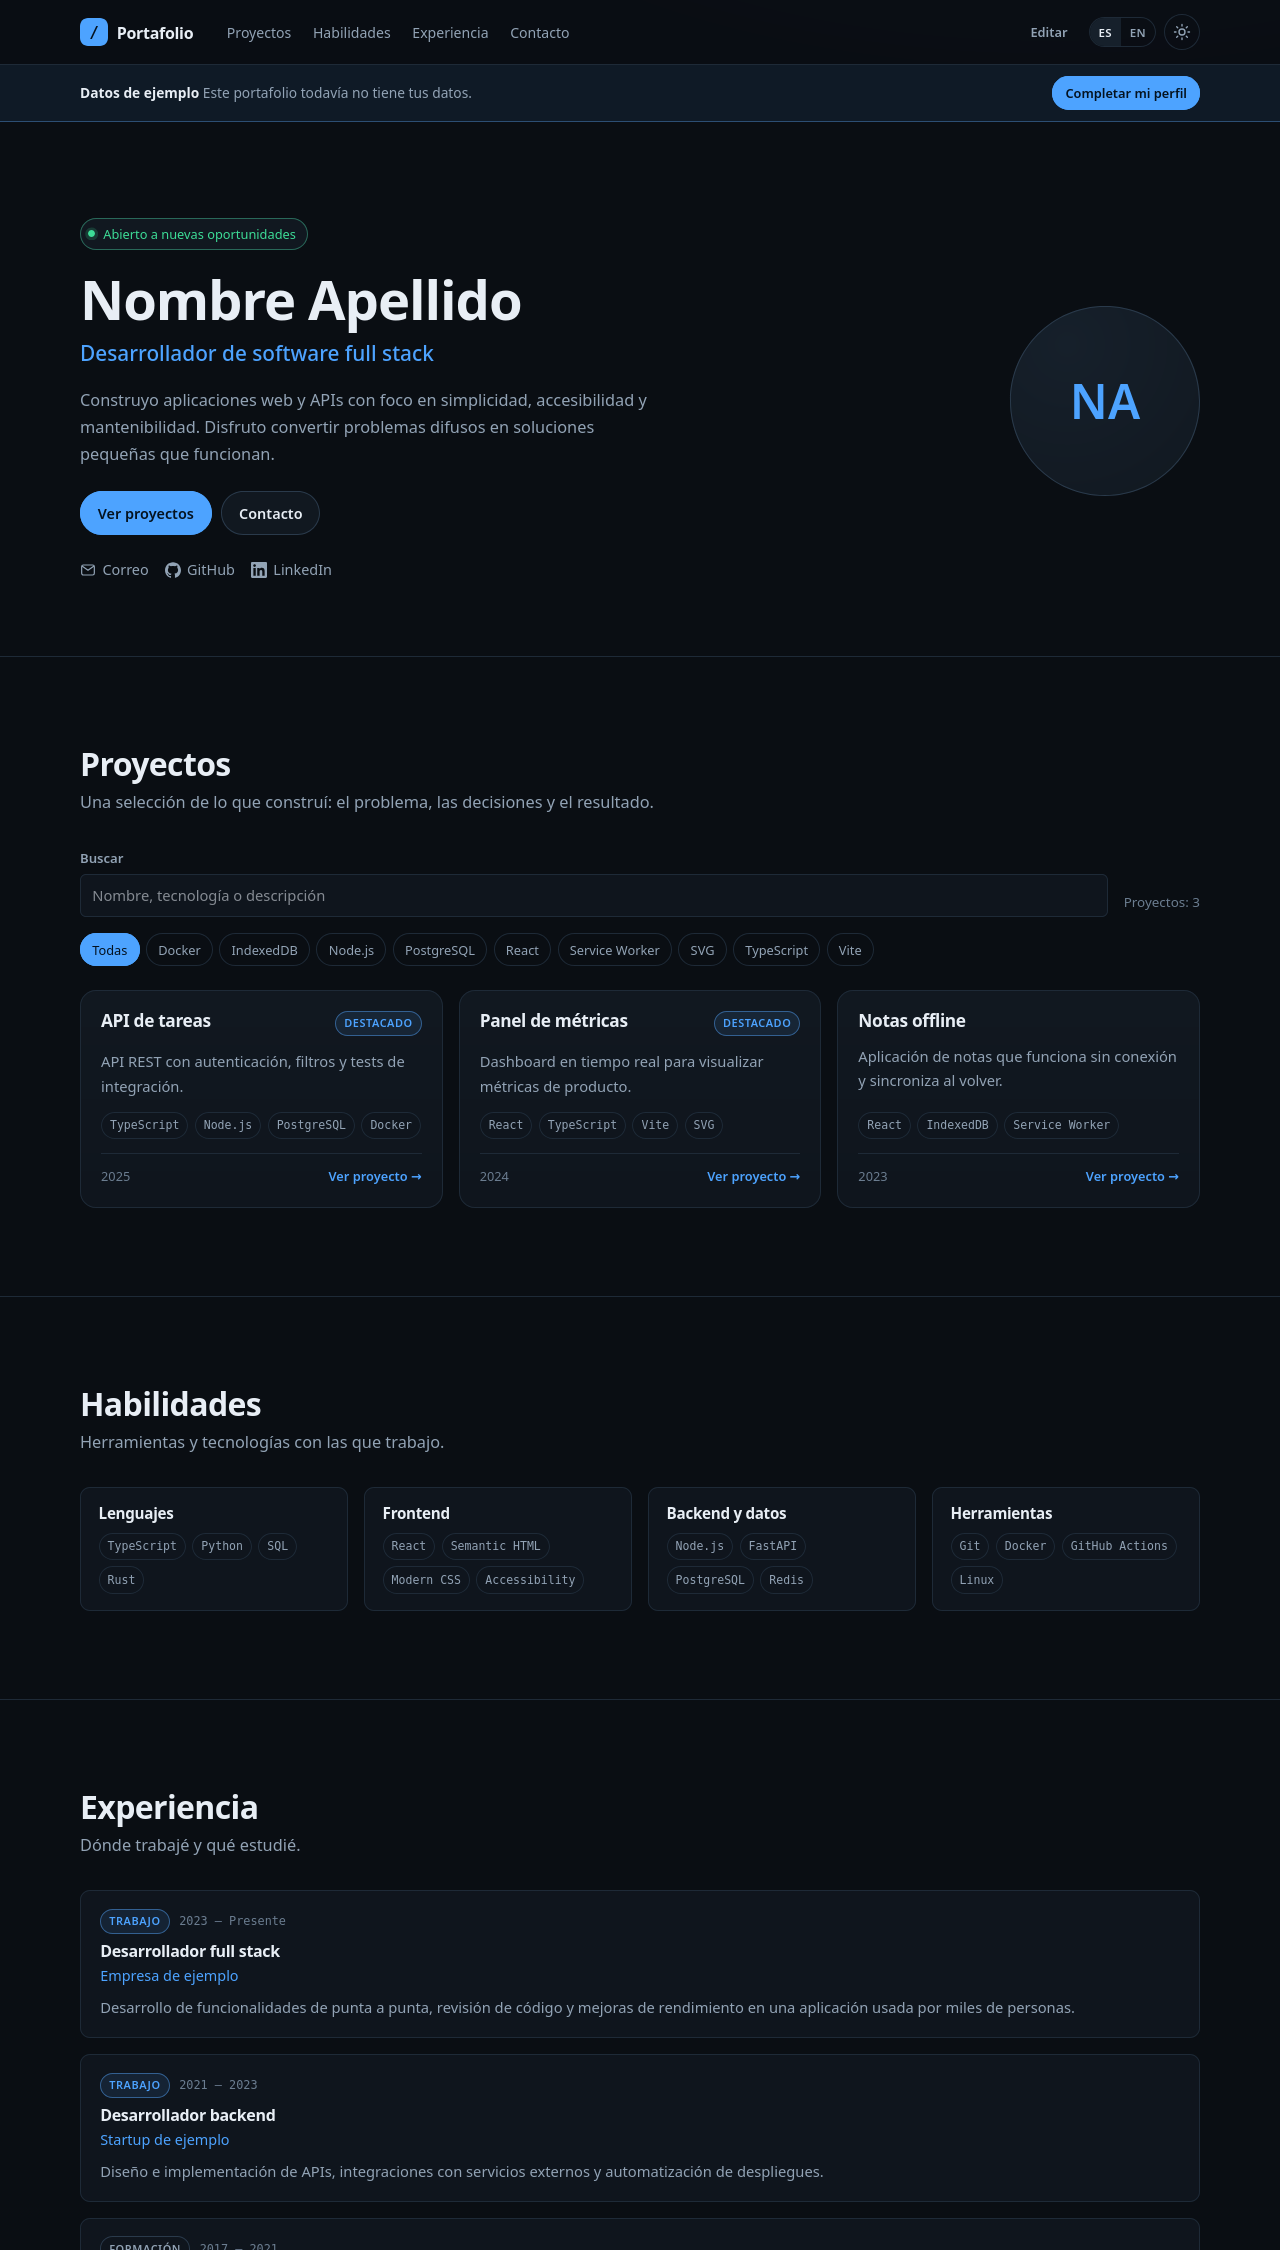
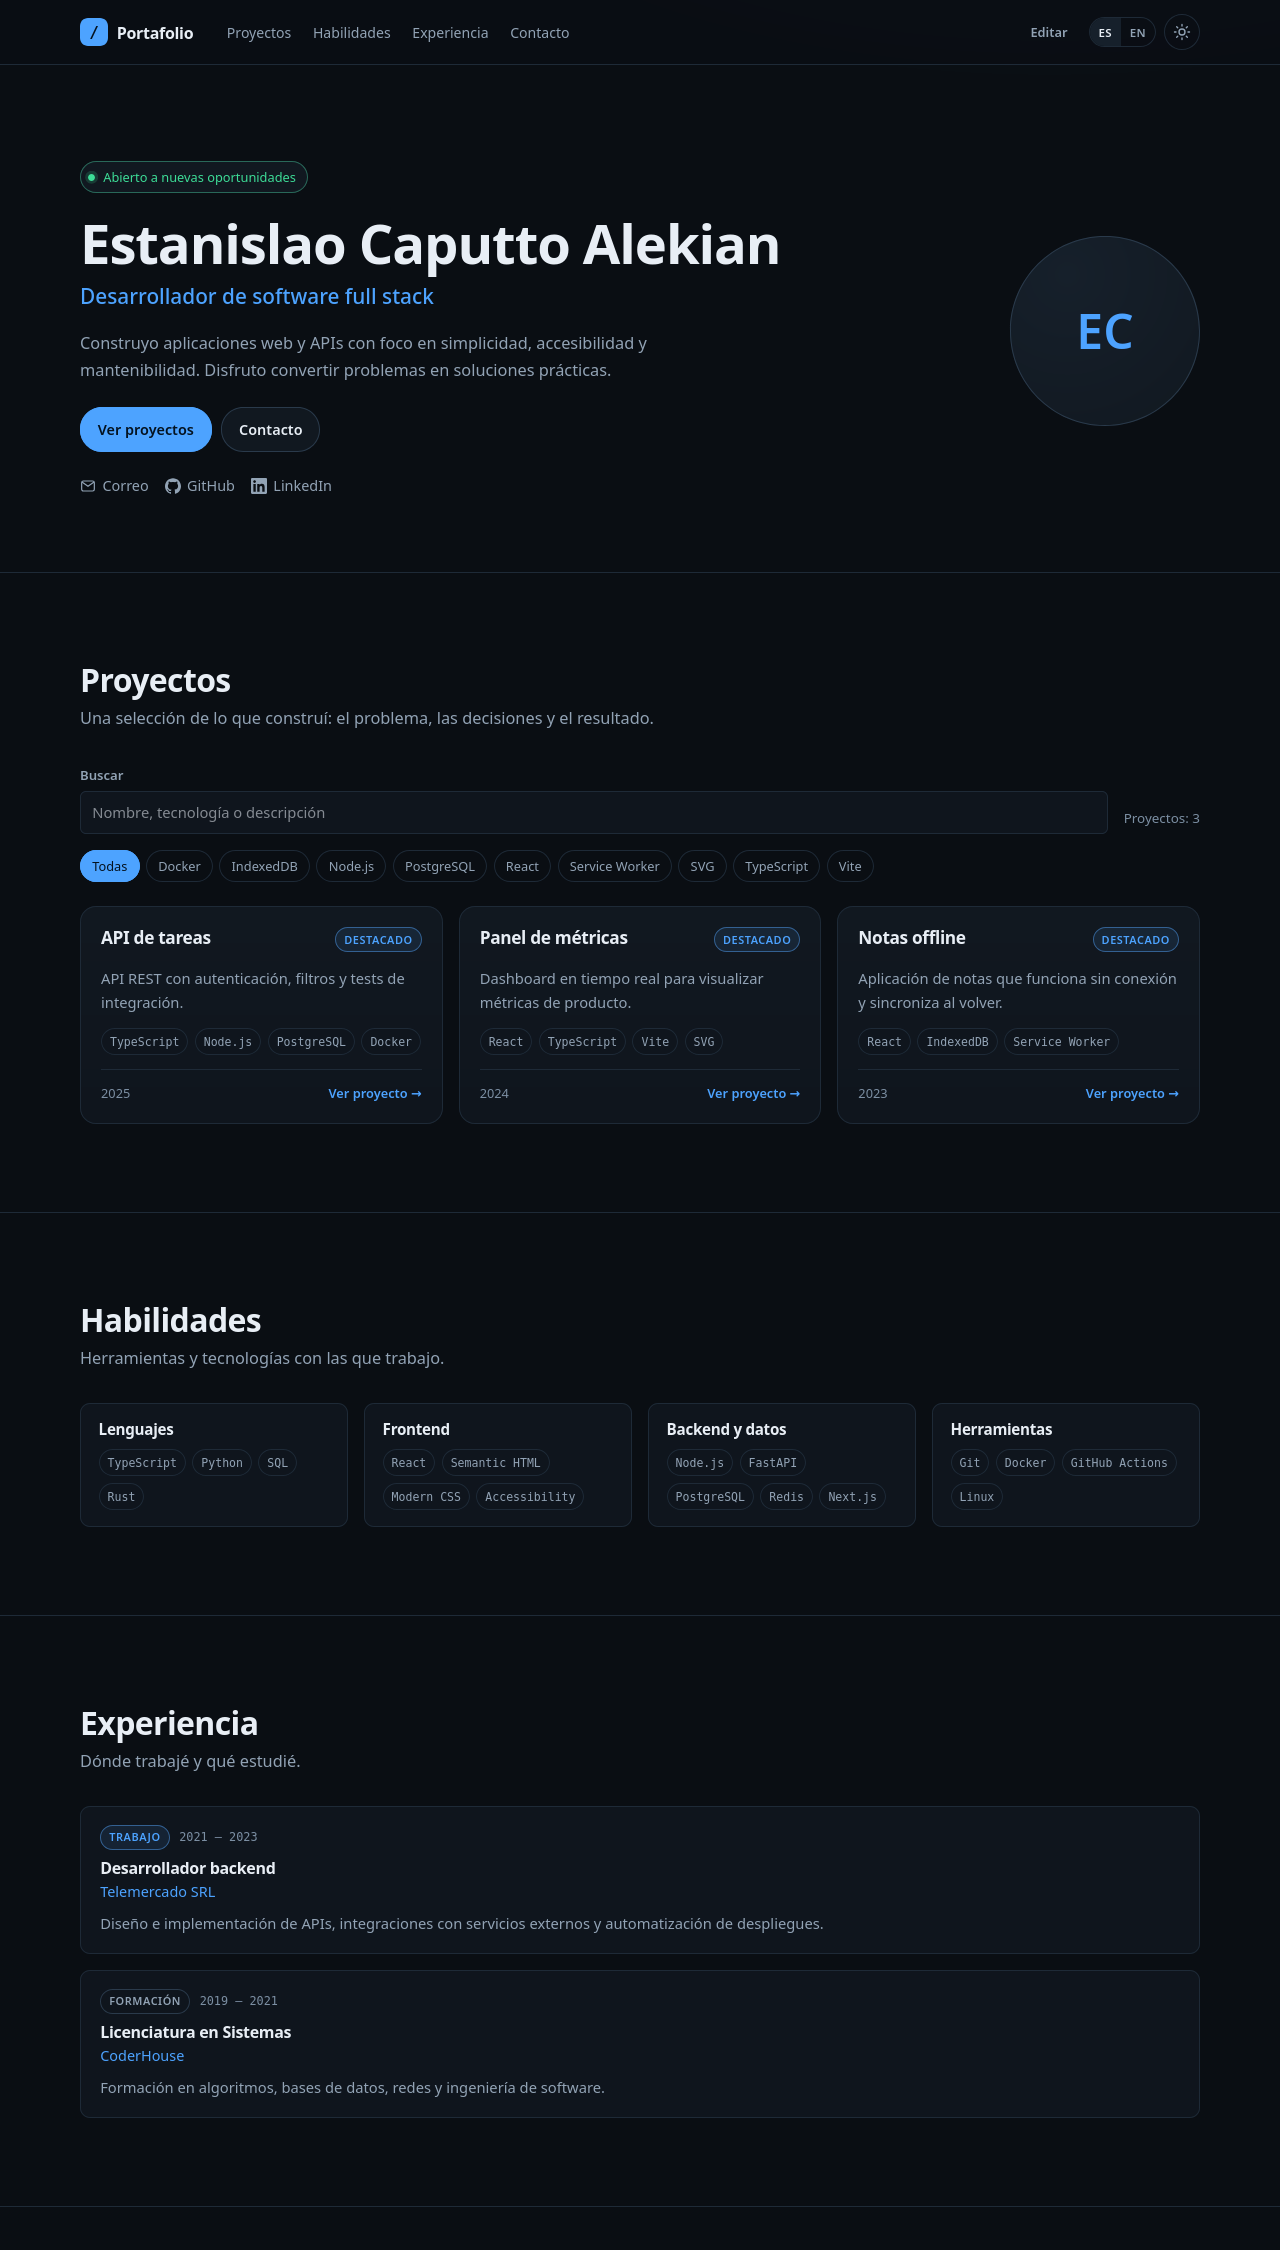
feat: publish personal profile and demo flag
Use the exported profile as the published seed, add a demo flag so the sample-data banner only appears when enabled, and decouple tests from the seed content.

diff --git a/src/__tests__/App.test.tsx b/src/__tests__/App.test.tsx
@@ -1,8 +1,16 @@
 import { fireEvent, render, screen } from '@testing-library/react';
 import { beforeEach, describe, expect, it } from 'vitest';
 import App from '../App';
+import { SEED } from '../data/seed';
 import type { Locale } from '../i18n';
 import { I18nProvider } from '../i18n/I18nProvider';
+
+const firstProject = SEED.projects[0];
+const secondProject = SEED.projects[1];
+
+if (!firstProject || !secondProject) {
+  throw new Error('El seed necesita al menos dos proyectos para correr estos tests.');
+}
 
 function renderApp(initialLocale: Locale = 'es') {
   return render(
@@ -22,12 +30,25 @@ beforeEach(() => {
 });
 
 describe('App', () => {
-  it('muestra el portafolio de ejemplo en español', () => {
+  it('muestra el portafolio publicado en español', () => {
     renderApp();
 
-    expect(screen.getByRole('heading', { level: 1, name: 'Nombre Apellido' })).toBeInTheDocument();
+    expect(screen.getByRole('heading', { level: 1, name: SEED.profile.name })).toBeInTheDocument();
+    expect(screen.getByText(`Proyectos: ${SEED.projects.length}`)).toBeInTheDocument();
+  });
+
+  it('no muestra el aviso de ejemplo si los datos son reales', () => {
+    renderApp();
+
+    expect(screen.queryByText('Datos de ejemplo')).toBeNull();
+  });
+
+  it('muestra el aviso cuando el portafolio está marcado como ejemplo', () => {
+    window.localStorage.setItem('portfolio:draft:v1', JSON.stringify({ ...SEED, demo: true }));
+
+    renderApp();
+
     expect(screen.getByText('Datos de ejemplo')).toBeInTheDocument();
-    expect(screen.getByText('Proyectos: 3')).toBeInTheDocument();
   });
 
   it('cambia de idioma sin recargar', () => {
@@ -37,25 +58,27 @@ describe('App', () => {
 
     expect(screen.getByRole('link', { name: 'Projects' })).toBeInTheDocument();
     expect(document.documentElement.lang).toBe('en');
-    expect(screen.getByRole('heading', { level: 1 })).toHaveTextContent('Nombre Apellido');
+    expect(screen.getByRole('heading', { level: 1 })).toHaveTextContent(SEED.profile.name);
   });
 
   it('filtra proyectos por búsqueda', () => {
     renderApp();
 
-    fireEvent.change(screen.getByLabelText('Buscar'), { target: { value: 'notas' } });
+    fireEvent.change(screen.getByLabelText('Buscar'), {
+      target: { value: firstProject.name },
+    });
 
-    expect(screen.getByRole('heading', { level: 3, name: 'Notas offline' })).toBeInTheDocument();
-    expect(screen.queryByRole('heading', { level: 3, name: 'API de tareas' })).toBeNull();
+    expect(screen.getByRole('heading', { level: 3, name: firstProject.name })).toBeInTheDocument();
+    expect(screen.queryByRole('heading', { level: 3, name: secondProject.name })).toBeNull();
     expect(screen.getByText('Proyectos: 1')).toBeInTheDocument();
   });
 
   it('abre el detalle de un proyecto por URL', () => {
-    goTo('#/proyecto/api-de-tareas');
+    goTo(`#/proyecto/${firstProject.id}`);
     renderApp();
 
-    expect(screen.getByRole('heading', { level: 1, name: 'API de tareas' })).toBeInTheDocument();
-    expect(screen.getByRole('heading', { level: 2, name: 'Resultados' })).toBeInTheDocument();
+    expect(screen.getByRole('heading', { level: 1, name: firstProject.name })).toBeInTheDocument();
+    expect(screen.getByRole('link', { name: /Volver a proyectos/ })).toBeInTheDocument();
   });
 
   it('muestra un mensaje si el proyecto no existe', () => {
@@ -103,8 +126,10 @@ describe('App', () => {
     fireEvent.change(screen.getByLabelText('Nombre'), { target: { value: 'Ada Lovelace' } });
 
     const stored = JSON.parse(window.localStorage.getItem('portfolio:draft:v1') ?? '{}') as {
+      demo?: boolean;
       profile?: { name?: string };
     };
     expect(stored.profile?.name).toBe('Ada Lovelace');
+    expect(stored.demo).toBe(false);
   });
 });

diff --git a/src/data/storage.ts b/src/data/storage.ts
@@ -6,7 +6,6 @@ export const DRAFT_KEY = 'portfolio:draft:v1';
 
 export interface LoadedPortfolio {
   portfolio: Portfolio;
-  fromSeed: boolean;
   warnings: string[];
 }
 
@@ -23,20 +22,20 @@ function getStorage(): Storage | null {
 }
 
 export function loadPortfolio(storage: Storage | null = getStorage()): LoadedPortfolio {
-  if (!storage) return { portfolio: SEED, fromSeed: true, warnings: [] };
+  if (!storage) return { portfolio: SEED, warnings: [] };
 
   try {
     const raw = storage.getItem(DRAFT_KEY);
-    if (!raw) return { portfolio: SEED, fromSeed: true, warnings: [] };
+    if (!raw) return { portfolio: SEED, warnings: [] };
 
     const { portfolio, warnings } = normalizePortfolio(JSON.parse(raw) as unknown);
     if (isPortfolioEmpty(portfolio)) {
-      return { portfolio: SEED, fromSeed: true, warnings };
+      return { portfolio: SEED, warnings };
     }
 
-    return { portfolio, fromSeed: false, warnings };
+    return { portfolio, warnings };
   } catch {
-    return { portfolio: SEED, fromSeed: true, warnings: [] };
+    return { portfolio: SEED, warnings: [] };
   }
 }
 

diff --git a/src/App.tsx b/src/App.tsx
@@ -21,18 +21,16 @@ export default function App() {
   const { locale, t } = useI18n();
   const [loaded] = useState(loadPortfolio);
   const [portfolio, setPortfolio] = useState<Portfolio>(loaded.portfolio);
-  const [fromSeed, setFromSeed] = useState(loaded.fromSeed);
 
   const updatePortfolio = useCallback((next: Portfolio) => {
-    setPortfolio(next);
-    setFromSeed(false);
-    savePortfolio(next);
+    const published: Portfolio = { ...next, demo: false };
+    setPortfolio(published);
+    savePortfolio(published);
   }, []);
 
   const resetPortfolio = useCallback(() => {
     clearPortfolio();
     setPortfolio(SEED);
-    setFromSeed(true);
   }, []);
 
   // El scroll depende de la ruta: secciones con ancla o inicio de página.
@@ -78,7 +76,7 @@ export default function App() {
 
       <Header route={route} />
 
-      {fromSeed && route.name !== 'edit' ? <DemoBanner /> : null}
+      {portfolio.demo ? <DemoBanner /> : null}
 
       <main id="main" tabIndex={-1}>
         {route.name === 'home' ? <HomePage portfolio={portfolio} /> : null}

diff --git a/src/data/__tests__/normalize.test.ts b/src/data/__tests__/normalize.test.ts
@@ -25,10 +25,17 @@ describe('normalizePortfolio', () => {
     const { portfolio, warnings } = normalizePortfolio(seed);
 
     expect(warnings).toEqual([]);
-    expect(portfolio.profile.name).toBe('Nombre Apellido');
+    expect(portfolio.profile.name).toBe(seed.profile.name);
+    expect(portfolio.demo).toBe(false);
     expect(portfolio.projects.length).toBeGreaterThan(0);
     expect(portfolio.skills.length).toBeGreaterThan(0);
     expect(portfolio.experience.length).toBeGreaterThan(0);
+  });
+
+  it('propaga el flag de datos de ejemplo solo cuando es true', () => {
+    expect(normalizePortfolio({ demo: true }).portfolio.demo).toBe(true);
+    expect(normalizePortfolio({}).portfolio.demo).toBe(false);
+    expect(normalizePortfolio(seed).portfolio.demo).toBe(false);
   });
 
   it('garantiza español e inglés en todos los textos del seed', () => {

diff --git a/src/data/__tests__/storage.test.ts b/src/data/__tests__/storage.test.ts
@@ -18,7 +18,6 @@ describe('loadPortfolio', () => {
     const loaded = loadPortfolio();
 
     expect(loaded.portfolio).toBe(SEED);
-    expect(loaded.fromSeed).toBe(true);
   });
 
   it('recupera un borrador guardado', () => {
@@ -28,7 +27,6 @@ describe('loadPortfolio', () => {
     expect(savePortfolio(custom)).toBe(true);
 
     const loaded = loadPortfolio();
-    expect(loaded.fromSeed).toBe(false);
     expect(loaded.portfolio.profile.name).toBe('Ada Lovelace');
   });
 
@@ -37,7 +35,6 @@ describe('loadPortfolio', () => {
 
     const loaded = loadPortfolio();
     expect(loaded.portfolio).toBe(SEED);
-    expect(loaded.fromSeed).toBe(true);
   });
 
   it('vuelve al seed si el borrador está vacío', () => {

diff --git a/src/i18n/en.ts b/src/i18n/en.ts
@@ -162,8 +162,8 @@ const en: Record<TranslationKey, string> = {
   'review.missingEnglish': 'Some fields have no English version.',
   'review.export': 'Download JSON',
   'review.import': 'Import JSON',
-  'review.reset': 'Restore sample data',
-  'review.resetConfirm': 'Restore sample data? Your changes will be lost.',
+  'review.reset': 'Restore published data',
+  'review.resetConfirm': 'Restore the published data? Your local changes will be lost.',
   'review.importError': 'That file does not contain a valid portfolio.',
   'review.importWarnings': 'Imported with {count} warnings.',
   'review.publish': 'How to publish it',

diff --git a/src/i18n/es.ts b/src/i18n/es.ts
@@ -162,8 +162,8 @@ const es = {
   'review.missingEnglish': 'Hay campos sin versión en inglés.',
   'review.export': 'Descargar JSON',
   'review.import': 'Importar JSON',
-  'review.reset': 'Restaurar ejemplo',
-  'review.resetConfirm': '¿Restaurar los datos de ejemplo? Se perderán tus cambios.',
+  'review.reset': 'Restaurar datos publicados',
+  'review.resetConfirm': '¿Restaurar los datos publicados? Se perderán tus cambios locales.',
   'review.importError': 'El archivo no tiene un portafolio válido.',
   'review.importWarnings': 'Se importó con {count} avisos.',
   'review.publish': 'Cómo publicarlo',

diff --git a/src/data/normalize.ts b/src/data/normalize.ts
@@ -136,6 +136,7 @@ function normalizeExperience(value: unknown, used: Set<string>): ExperienceItem 
 export function emptyPortfolio(): Portfolio {
   return {
     version: 1,
+    demo: false,
     profile: normalizeProfile(null),
     projects: [],
     skills: [],
@@ -197,6 +198,7 @@ export function normalizePortfolio(input: unknown): NormalizedPortfolio {
   return {
     portfolio: {
       version: 1,
+      demo: input.demo === true,
       profile: normalizeProfile(input.profile),
       projects,
       skills,

diff --git a/src/data/types.ts b/src/data/types.ts
@@ -55,6 +55,8 @@ export interface SkillGroup {
 
 export interface Portfolio {
   version: 1;
+  /** Marca el seed como datos de ejemplo; se apaga al primer cambio. */
+  demo: boolean;
   profile: Profile;
   projects: Project[];
   skills: SkillGroup[];

diff --git a/README.md b/README.md
@@ -1,9 +1,8 @@
 # Portafolio
 
-Plantilla de portafolio profesional para desarrolladores. Es **genérica**: cada persona la
-completa con sus datos y publica su propia versión. SPA bilingüe (español/inglés), tema oscuro por
-defecto y datos en JSON, pensada para que la lean personas y también sistemas automáticos de
-selección.
+Portafolio profesional bilingüe (español/inglés) de Estanislao Caputto Alekian, construido sobre una
+plantilla genérica que cada persona completa con sus datos. SPA con tema oscuro por defecto y datos
+en JSON, pensada para que la lean personas y también sistemas automáticos de selección.
 
 ![Vista previa del portafolio en tema oscuro](docs/preview.png)
 
@@ -52,7 +51,9 @@ Abrí la URL que imprime Vite (por defecto `http://localhost:5173`).
 4. En **Revisar**, descargá `portfolio.json`.
 5. Reemplazá `src/data/seed.json` con ese archivo y volvé a compilar/publicar.
 
-Mientras no reemplaces el seed vas a ver los **datos de ejemplo** con un aviso en pantalla.
+Este repositorio ya tiene los datos publicados del autor en el seed. Para usarlo como plantilla,
+reemplazá `src/data/seed.json` por el JSON de tus datos. Si un seed lleva `"demo": true`, el sitio
+muestra un aviso de datos de ejemplo hasta el primer cambio.
 
 > **LinkedIn:** no existe API pública de perfiles y scrapearlos viola sus términos. Por eso LinkedIn
 > y el email se cargan como enlaces/datos manuales; solo GitHub se importa automáticamente.
